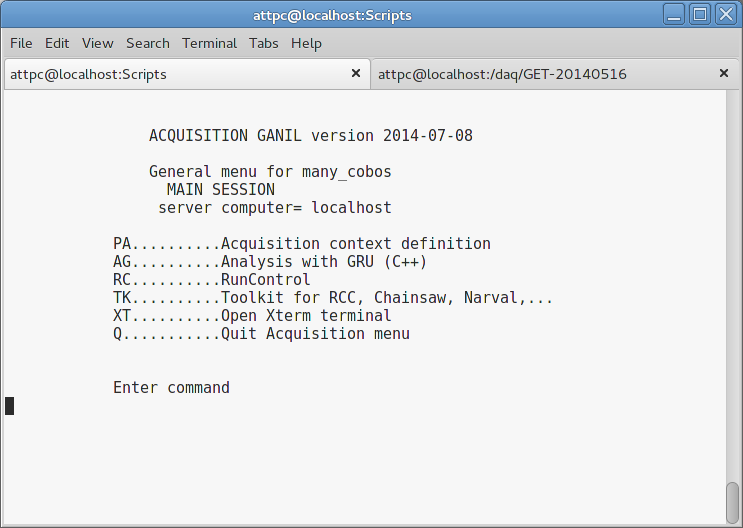
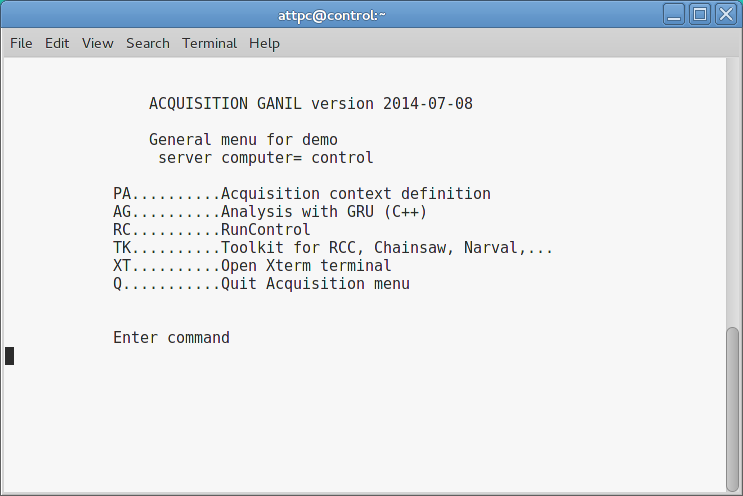
Added docs on how to set up an experiment.

diff --git a/source/exp_setup.rst b/source/exp_setup.rst
@@ -1,0 +1,215 @@
+Setting up an experiment
+========================
+
+It takes a bit of work to set up an experiment the first time. The main tasks are to:
+
+  - Set up the required directories
+  - Describe the components of the system
+  - Describe the connections between these components
+  - Distribute this information to the Mac Minis
+  
+Most of this can be done within the RCC GUI.
+
+..  warning::
+
+    Some of this information is a bit preliminary, and it could change in the near future if we discover a better way to configure the system.
+    
+..  note::
+    
+    Throughout this process, make sure to save frequently with :kbd:`Control-s`.
+
+Initializing the experiment
+---------------------------
+
+Start by running the script :file:`start_ACQ` (located in the :file:`/daq/ACQ_HOST/latest/Scripts` directory). This should be in the environment's :envvar:`PATH` already, so it can be run from any working directory. The script takes one argument: the name of the experiment to be created. For example, to start an experiment called "demo", run this command in a terminal:
+
+..  code-block:: bash
+    
+    $ start_ACQ demo
+    
+This will ask a series of questions. 
+
+  #. Say yes to create the root directory of the experiment (under :file:`~/ganacq_manip`)
+  #. Accept the default data storage path (:file:`/data/attpcX`)
+  #. Press enter to finish
+  
+Now you should see the main menu:
+
+..  image:: images/acqmenu.png
+
+Type :kbd:`p a Enter` to edit some experiment variables. This will bring up a :command:`nedit` window.
+
+..  image:: images/acqparams.png
+
+Scroll down and find the section
+
+..  code-block:: perl
+
+    # Main computer definition :
+    # ACQ_SERV_NAME defines the name of the main computer on which 
+    # you want to launch your acquisition.
+    # This enable to have several client computers to run command
+    # and/or visu sessions
+    # If this variable is not defined, the main computer is the one on which
+    # you launch the start_acq menu. In this case, take care to not launch the same experiment 
+    # on several computers at the time!
+    #
+    #$ENV{'ACQ_SERV_NAME'} = "ganp670";
+    
+Uncomment the last line of this and change it to say
+
+..  code-block:: perl
+
+    $ENV{'ACQ_SERV_NAME'} = "control";
+    
+This tells the system that the computer called "control" will be running RCC server and controlling the experiment. Save this file and close it to return to the main menu.
+
+At this point, we're ready to launch the rest of the system. Type :kbd:`r c Enter` to launch NARVAL, RCC, the RCC GUI, and the rest of the components. Be patient as this takes a moment and opens a lot of windows.
+
+Describing the equipment
+------------------------
+
+Once the RCC GUI window appears, we can start to describe the DAQ topology. Initially, the window will be empty:
+
+..  image:: images/empty_rccgui.png
+
+Adding NARVAL subsystems
+++++++++++++++++++++++++
+
+Start by adding a NARVAL subsystem for each Mac Mini. Click on :guilabel:`Narval sub-systems` at the top of the window and then click :guilabel:`New` in the window that appears. Then fill in information for each subsystem as follows:
+
++----------------+-------------------------+
+|Item            | Value                   |
++================+=========================+
+|Name            | :samp:`NARVAL{X}`       |
++----------------+-------------------------+
+|Hostname        | :samp:`192.168.41.6{X}` |
++----------------+-------------------------+
+|Coordinator CPU | :samp:`192.168.41.6{X}` |
++----------------+-------------------------+
+
+Here, ``X`` is to be replaced with the index of the Mac Mini in question. Here is a completed window for ``mm0``:
+
+..  image:: images/new_narval_subsys.png
+
+Repeat this process for each Mac Mini.
+
+Adding components
++++++++++++++++++
+
+To add a component, click anywhere in the grid and then click the green :guilabel:`OK` button. 
+
+..  image:: images/add_component.png
+
+Start by adding the ECC server. In the :guilabel:`Choose equipment type` window, choose "Electronics Control Core" and press :guilabel:`OK`. Name it "ECC" (or anything else reasonable), give it the HostName ``192.168.41.10`` (the IP address of the control computer), and leave the port as ``8083``. Press :guilabel:`Add 1 ECC` and the server will appear on the grid.
+
+..  image:: images/ecc_on_grid.png
+
+Next we need to add the components that collect data from each CoBo. Start by clicking on the grid and adding a component of the type "Narval actor defined by a template file". Enter these values:
+
++------------------+----------------------------------+
+|Item              | Value                            |
++==================+==================================+
+|Name              | :samp:`CoBo[{X}]`                |
++------------------+----------------------------------+
+|HostName          | :samp:`192.168.41.6{X}`          |
++------------------+----------------------------------+
+|Log Level         | (any)                            |
++------------------+----------------------------------+
+|Template file     | ``gnarval_mfm_catcher.template`` |
++------------------+----------------------------------+
+|Narval sub-system | :samp:`NARVAL{X}`                |
++------------------+----------------------------------+
+
+Again, replace the ``X`` with the index of the Mac Mini. The window should look like this (for ``mm0``):
+
+..  image:: images/new_mfm_catcher.png
+
+..  warning::
+    
+    The name of the MFM catcher *must* match the name of a CoBo in the configuration files given to ECC server. Generally, the file calls the CoBos ``CoBo`` and then indexes them, hence ``CoBo[0]``, ``CoBo[1]`` etc. are appropriate names.
+    
+Next, add a component of the type "MFM Narval Watcher actor". Fill in
+
++------------------+----------------------------------+
+|Item              | Value                            |
++==================+==================================+
+|Name              | :samp:`Watcher{X}`               |
++------------------+----------------------------------+
+|HostName          | :samp:`192.168.41.6{X}`          |
++------------------+----------------------------------+
+|Log Level         | (any)                            |
++------------------+----------------------------------+
+|Narval sub-system | :samp:`NARVAL{X}`                |
++------------------+----------------------------------+
+
+And finally add a component of the type "MFM Narval Storage actor" with the same settings as the watcher actor, but with the name :samp:`Storage{X}`.
+
+Repeat this process for each Mac Mini.
+
+Linking components
+++++++++++++++++++
+
+Once we've added all of the components, we need to tell RCC how they're connected to each other. Do this by adding links. At the top of the window, choose :guilabel:`Add link`. This changes the behavior of the mouse so that clicking in the grid area will add a link between components.
+
+..  image:: images/radio_buttons.png
+
+Click and drag from one component to another to add a link. The links between the ECC and the MFM Catchers need to be set up using these options:
+
+..  image:: images/link_ecc.png
+
+Note that I've selected ``eth1`` for both ports and added two zeros to the buffer size. The rest of the settings are the defaults.
+
+For links between NARVAL components, use these settings:
+
+..  image:: images/link_narval.png
+
+This time, everything is left as the default except for the buffer size.
+
+When you've finished linking components, the setup should look something like this:
+
+..  image:: images/full_rccgui.png
+
+..  note::
+
+    I've used different names for the NARVAL subsystems in this image. It doesn't matter what they're called as long as it's meaningful and consistent. The only constraint is that each subsystem must have a unique name.
+    
+Start and stop configurations
+-----------------------------
+
+Next, we must tell RCC what order to start and stop the components in when we start and stop runs. In the menu bar, choose :guilabel:`Configuration->Start configuration`. Add components to the list such that all of the NARVAL subsystems start *before* ECC starts. That way, the computers will be ready when data starts to flow.
+
+..  image:: images/start_config.png
+
+Now, choose :guilabel:`Configuration->Stop configuration` and arrange the components in the opposite order (or, just make sure that ECC stops first):
+
+..  image:: images/stop_config.png
+
+
+Distributing the configuration to the Mac Minis
+-----------------------------------------------
+
+Now we need to trick the system into producing the NARVAL configuration files. Do this by clicking :guilabel:`Mode->Monitoring mode`. This puts the RCC server into a mode where it's ready to take commands, and it should also try to communicate with the NARVAL processes on the Mac Minis. 
+
+..  note::
+    
+    This will produce error messages if NARVAL is not running on the Mac Minis or ECC server is not running on the control computer. These messages can be ignored.
+    
+After waiting a moment, put the system back into :guilabel:`Editing mode`. 
+
+..  warning::
+
+    To be on the safe side, it is probably best to save and quit the DAQ system on the control computer before continuing. Do this by going back to the main menu and pressing :kbd:`q Enter y Enter`.
+    
+Now open a terminal and execute the following commands:
+
+..  code-block:: bash
+
+    $ cd ~/ansible-attpc/distrib-experiment
+    $ ansible-playbook distribute.yml -f 10 --extra-vars "exp_name=[experiment name]"
+
+Replace ``[experiment name]`` with the name of your experiment. This will sync the RCC and NARVAL configuration files to the Mac Minis. (This is described in more detail in :doc:`distrib-experiment`.)
+
+Once this finishes, you should be ready to take data.
+    
+

diff --git a/source/index.rst b/source/index.rst
@@ -14,5 +14,6 @@ Contents
    :maxdepth: 3
    
    components.rst
+   exp_setup.rst
    ansible.rst
    directories.rst
